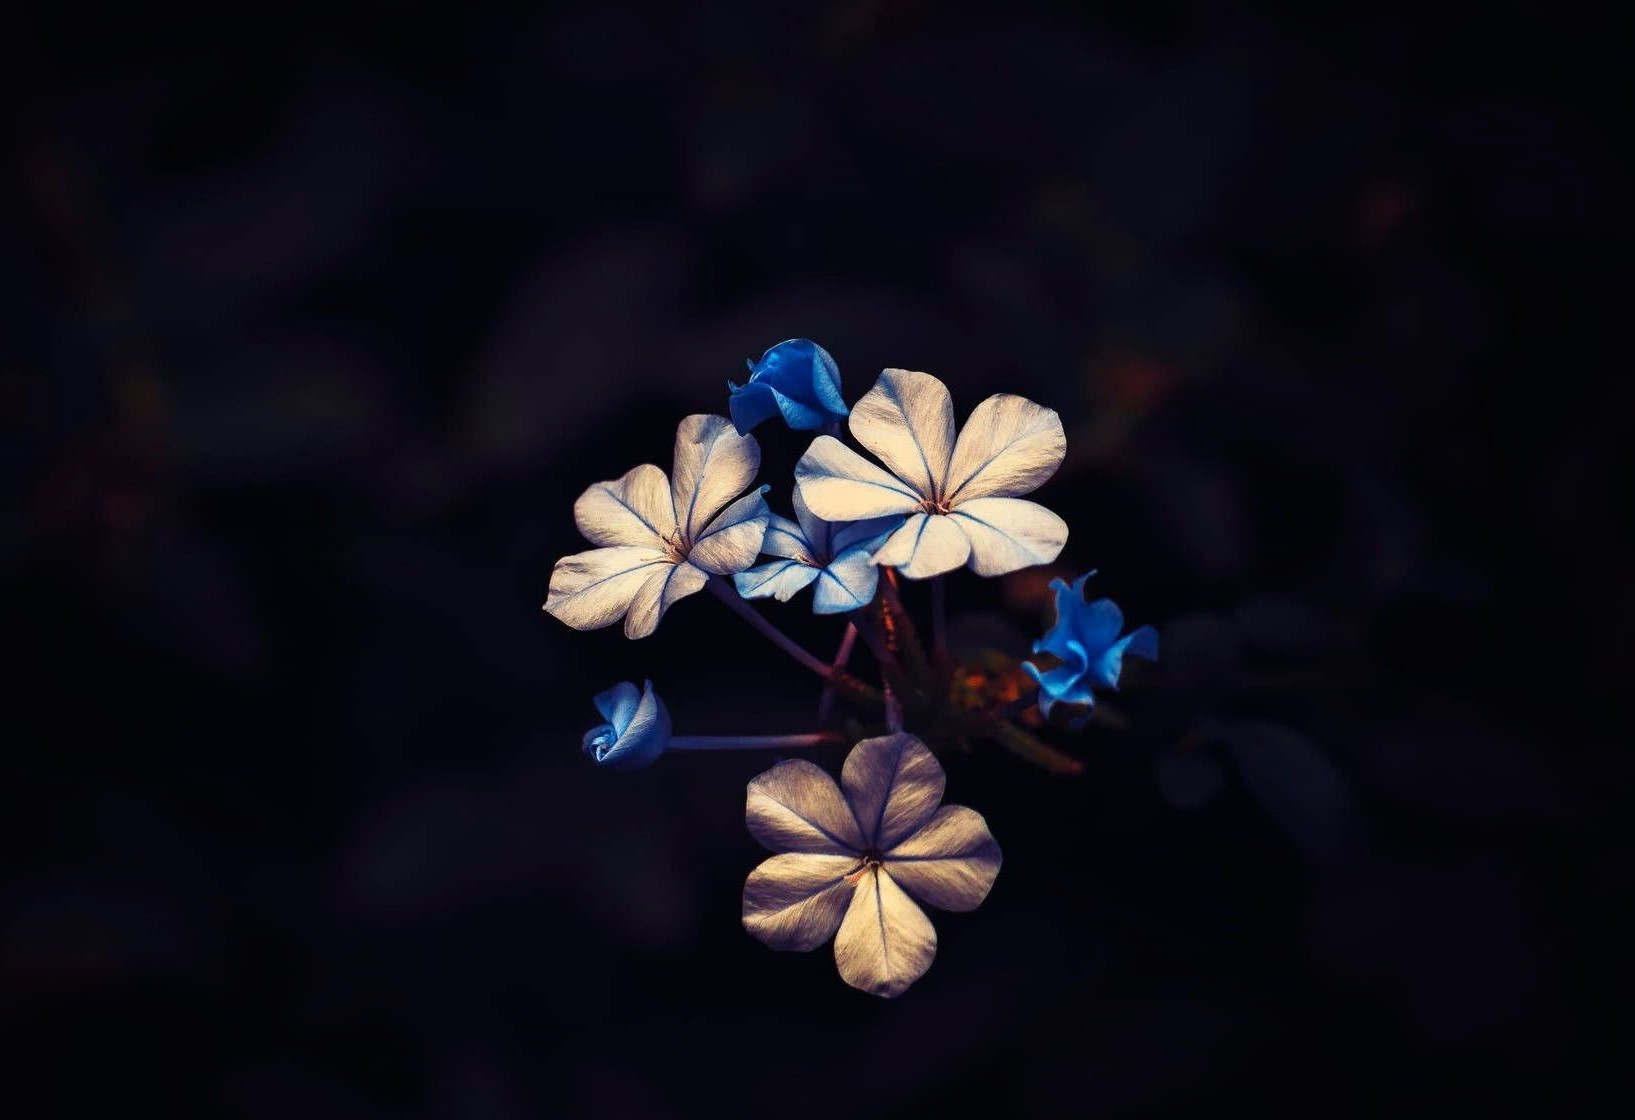
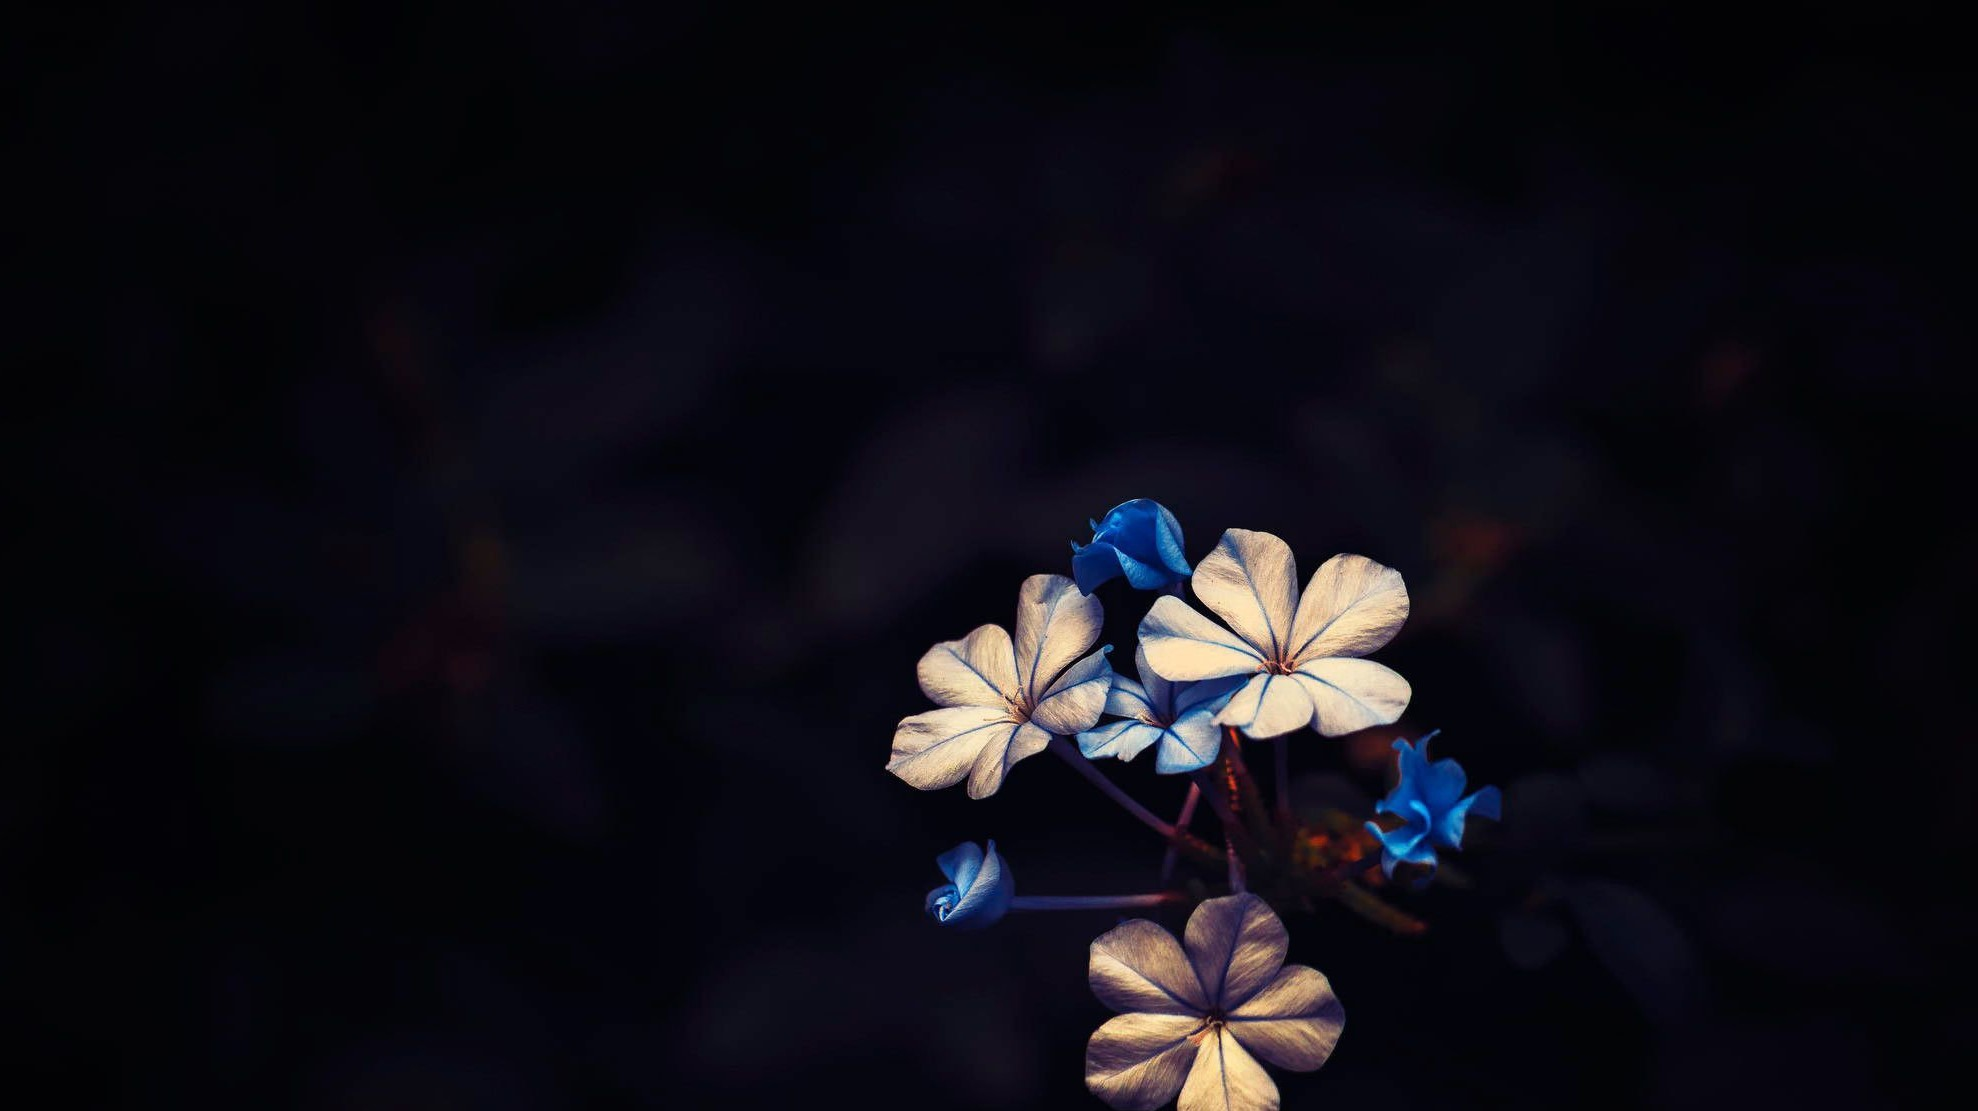
new background

Changed region(s): [[0.3119, 0.306, 0.7798, 1.0]]

diff --git a/app.py b/app.py
@@ -55,7 +55,7 @@ def set_background(png_file):
 background = r"datasets/background2.jpg"
 if selected == "":
     set_background(background)
-    col1,col2,col3 = st.columns([1,2,1])
+    col1,col2,col3 = st.columns([1,3,1])
     with col2:
         st.title("Oliver Youness")
         st.subheader("Computer science student in KTH, Stockholm")
